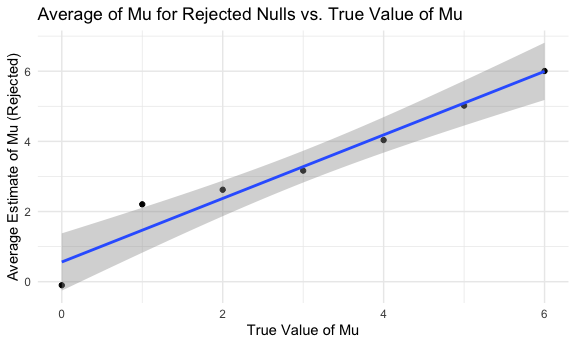
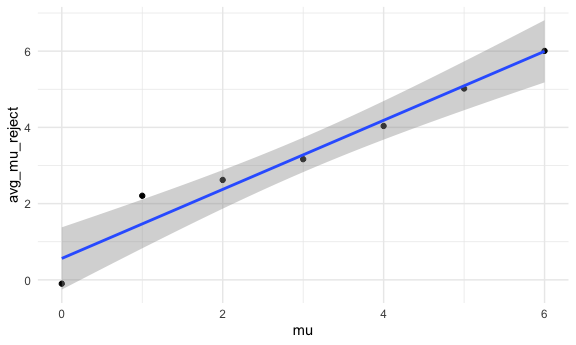
Descriptions for all plots done

diff --git a/p8105_hw5_jz3180.md b/p8105_hw5_jz3180.md
@@ -404,6 +404,10 @@ prop_reject %>%
 ```
 
 <img src="p8105_hw5_jz3180_files/figure-gfm/plot one-1.png" width="90%" />
+Looking at this plot, as the true value of mu (effect size) increases,
+the power of the test also increases in a shape similar to an increasing
+log function. This increase levels off around 1, which is the highest
+value that power can be.
 
 ``` r
 avg_mu = 
@@ -429,8 +433,29 @@ avg_mu_reject =
     avg_mu_reject = mean(estimate)) 
 avg_mu_reject %>% 
   ggplot(aes(x = mu, y = avg_mu_reject)) +
-  geom_point() + geom_smooth(method = lm) +
-  labs(y = "Average Estimate of Mu (Rejected)", x = "True Value of Mu", title = "Average of Mu for Rejected Nulls vs. True Value of Mu")
+  geom_point() + geom_smooth(method=lm)
 ```
 
 <img src="p8105_hw5_jz3180_files/figure-gfm/plot three-1.png" width="90%" />
+
+``` r
+  labs(y = "Average Estimate of Mu (Rejected)", x = "True Value of Mu", title = "Average of Mu for Rejected Nulls vs. True Value of Mu")
+```
+
+    ## $y
+    ## [1] "Average Estimate of Mu (Rejected)"
+    ## 
+    ## $x
+    ## [1] "True Value of Mu"
+    ## 
+    ## $title
+    ## [1] "Average of Mu for Rejected Nulls vs. True Value of Mu"
+    ## 
+    ## attr(,"class")
+    ## [1] "labels"
+
+Looking at this plot, the sample average of mu across tests for which
+the null is rejected is more approximately equal to the true value of mu
+as the true value of mu (effect size) increases. This makes sense
+because with lower power, the closer the average estimate of mu to the
+null, the more likely it is to be accepted instead of rejected.
